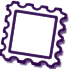
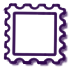
Add chat stamps

diff --git a/src/graphics/overlays/postyen/components/Message.tsx b/src/graphics/overlays/postyen/components/Message.tsx
@@ -1,4 +1,5 @@
 import { FunctionComponent, h } from 'preact'
+import { useMemo } from 'preact/hooks'
 
 import { MessageProps } from '../../../components/Chat/ChatItem'
 import useUserColours from '../../../utils/useUserColours'
@@ -11,9 +12,14 @@ import sub12 from '../../../assets/badges/subscriber/12.png'
 import sub3 from '../../../assets/badges/subscriber/3.png'
 import sub6 from '../../../assets/badges/subscriber/6.png'
 
+import defaultIcon from '../../../assets/images/postyen/stamp-usericon.png'
+
 interface UserBadgesProps {
   badges: Record<string, string>
 }
+
+const random = (min: number, max: number) =>
+  (Math.random() * (min - max) + max).toFixed(2)
 
 const UserBadges: FunctionComponent<UserBadgesProps> = ({ badges = {} }) => {
   if (badges.broadcaster) {
@@ -46,7 +52,7 @@ const UserBadges: FunctionComponent<UserBadgesProps> = ({ badges = {} }) => {
     return <img src={sub0} alt="sub0" className="o-emote o-emote--flush" />
   }
 
-  return null
+  return <span className="o-emote">&hearts;</span>
 }
 
 const Message: FunctionComponent<MessageProps> = ({ item, user, message }) => {
@@ -54,6 +60,8 @@ const Message: FunctionComponent<MessageProps> = ({ item, user, message }) => {
     item?.user.color,
     '#ce4fd9',
   )
+
+  const stampAngle = useMemo(() => random(-4, 4), [])
 
   return (
     <div className="c-chat-item c-chat-message">
@@ -68,11 +76,16 @@ const Message: FunctionComponent<MessageProps> = ({ item, user, message }) => {
           <UserBadges badges={item.user.badges} />
         </div>
 
-        <div className="c-chat-message__separator">
-          <span className="o-emote">&hearts;</span>
-        </div>
-
         <div className="c-chat-message__user">{user}</div>
+
+        <div
+          className="c-chat-message__stamp c-stamp"
+          style={{
+            transform: `rotate(${stampAngle}deg)`,
+          }}
+        >
+          <img src={defaultIcon} className="c-stamp__icon" />
+        </div>
       </div>
 
       <div className="c-chat-message__message">{message}</div>

diff --git a/src/graphics/scss/overlays/postyen/components/_c-chat-message.scss b/src/graphics/scss/overlays/postyen/components/_c-chat-message.scss
@@ -25,4 +25,23 @@
   align-items: center;
   justify-content: flex-start;
   font-size: 1.2em;
+  padding-left: 10px;
+  padding-right: 80px;
+}
+
+.c-chat-message__badge {
+  flex-shrink: 0;
+  margin: -1em 10px -1em 0;
+
+  .o-emote {
+    height: 1.5em;
+    line-height: 1.5em;
+    text-align: center;
+  }
+}
+
+.c-chat-message__stamp {
+  position: absolute;
+  top: 2px;
+  right: 2px;
 }

diff --git a/src/graphics/scss/postyen.scss b/src/graphics/scss/postyen.scss
@@ -40,6 +40,7 @@ $global-drop-shadow: none;
 
 @import 'overlays/postyen/components/c-twemoji';
 @import 'overlays/postyen/components/c-twitch-emote';
+@import 'overlays/postyen/components/c-stamp';
 @import 'overlays/postyen/components/c-envelope';
 @import 'overlays/postyen/components/c-chat';
 @import 'overlays/postyen/components/c-chat-message';

diff --git a/src/graphics/scss/overlays/postyen/components/_c-chat.scss b/src/graphics/scss/overlays/postyen/components/_c-chat.scss
@@ -1,7 +1,7 @@
 .c-chat {
   position: absolute;
   top: 82px;
-  bottom: 108px;
+  bottom: 20px;
   right: 0;
   left: auto;
   overflow: hidden;
@@ -10,11 +10,12 @@
 }
 
 .c-chat__wrapper {
-  padding: 0 12px 0.5em 15px;
+  padding: 0 12px 70px 15px;
 }
 
 .c-chat__placeholder {
   min-height: 890px;
+  flex-shrink: 0;
   flex-grow: 1;
 }
 

diff --git a/src/graphics/scss/overlays/postyen/components/_c-stamp.scss b/src/graphics/scss/overlays/postyen/components/_c-stamp.scss
@@ -1,0 +1,17 @@
+.c-stamp {
+  position: relative;
+  padding: 17.5px;
+  transform-origin: 50% 50%;
+
+  &:after {
+    content: '';
+    position: absolute;
+    top: 0;
+    left: 0;
+    width: 100%;
+    height: 100%;
+
+    background: url('../assets/images/postyen/stamp.png') no-repeat center
+      center;
+  }
+}
